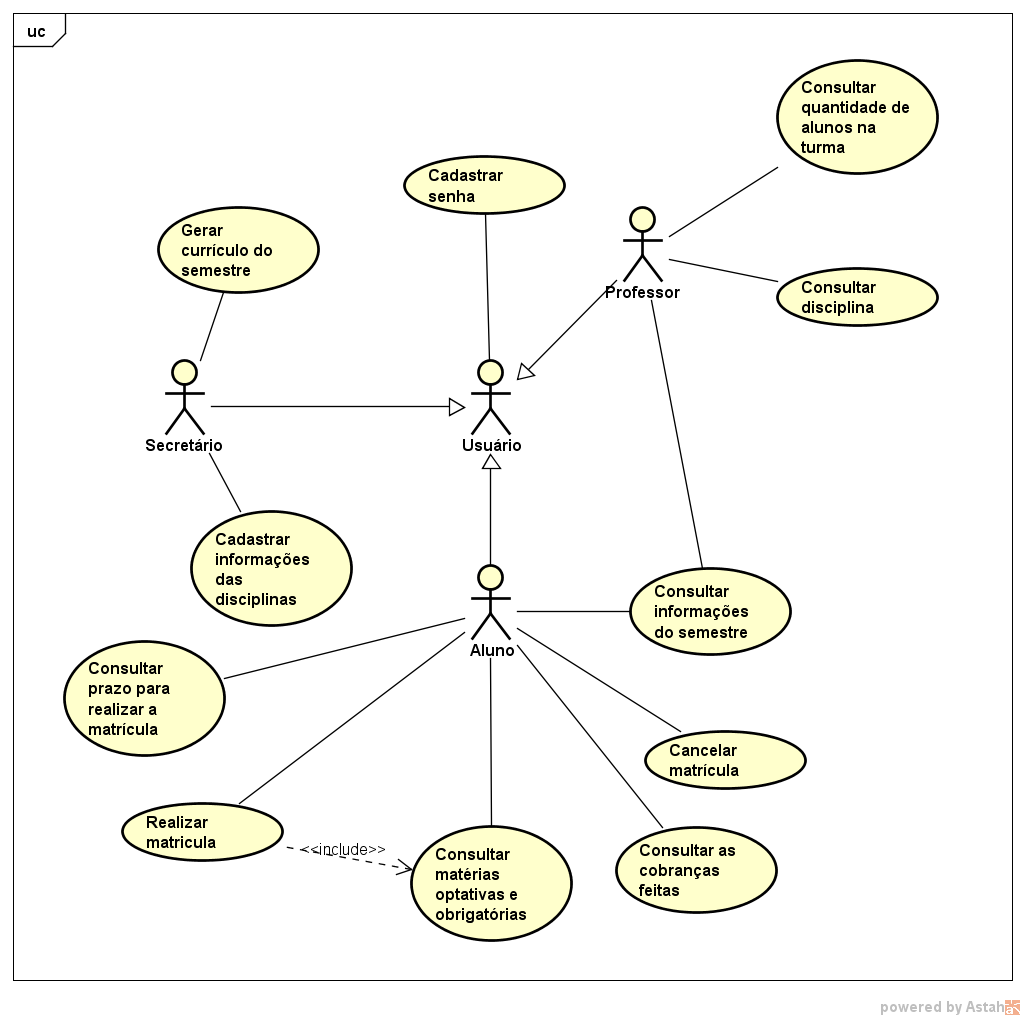
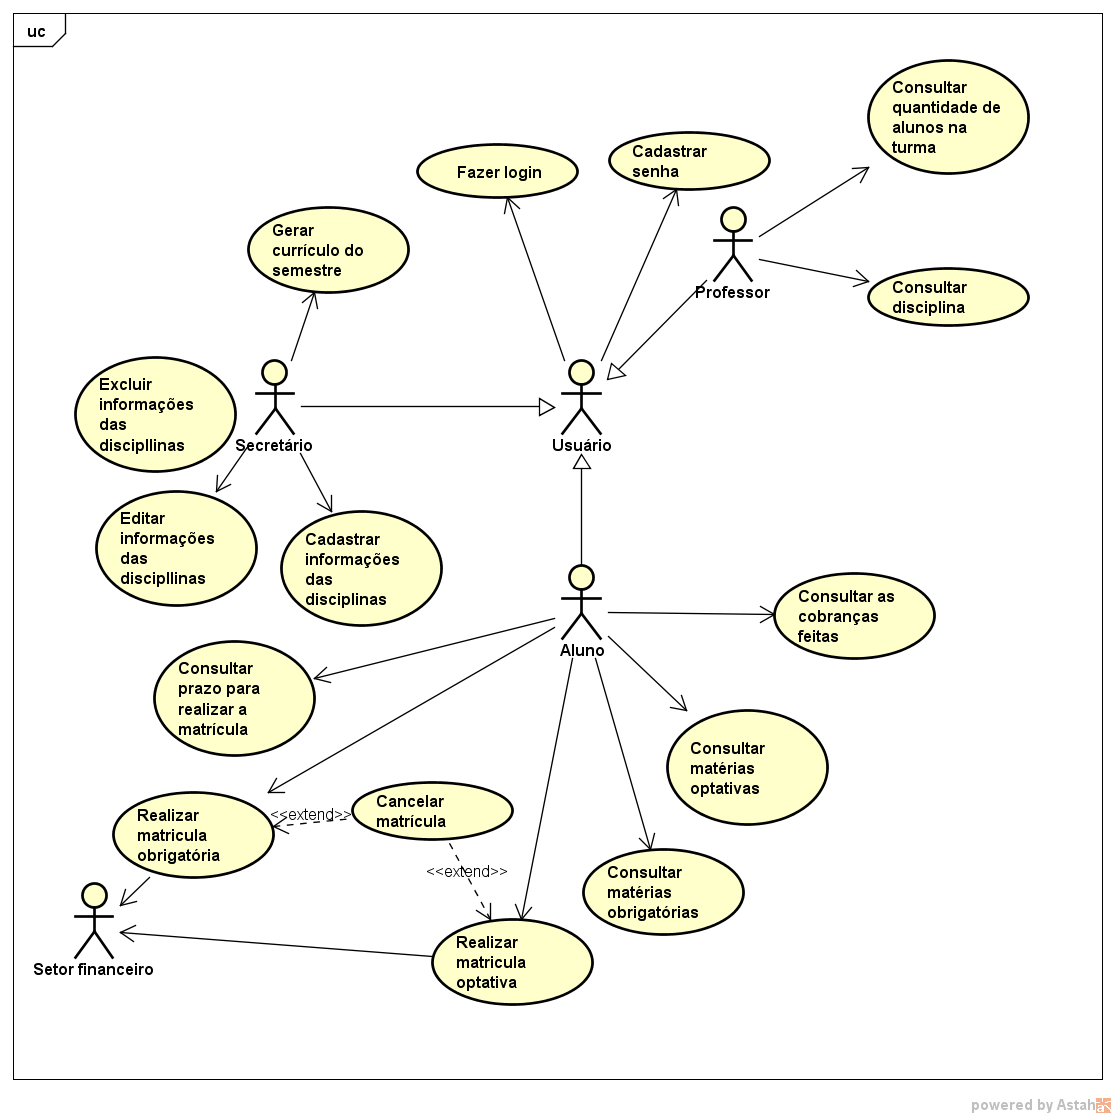
Alterado diagrama de casos de uso e histórias de usuário

diff --git a/Lab_01/Projeto/README.md b/Lab_01/Projeto/README.md
@@ -1,5 +1,5 @@
 <p>Eu, como secretaria da universidade, posso gerar o currículo para cada semestre, para informar para os alunos e os professores</p>
-<p>Eu, como secretaria da universidade, posso cadastrar as informações sobre as disciplinas, para manter controle das informações</p>
+<p>Eu, como secretaria da universidade, posso cadastrar as informações sobre as disciplinas, professores e alunos, para manter controle das informações</p>
 <p>Eu, como aluno, posso consultar as informações do semestre, para me programar para o semestre letivo</p>
 <p>Eu, como professor, posso consultar as informações do semestre, para me programar para o semestre letivo</p>
 <p>Eu, como aluno, posso realizar matricula, para cursar a disciplina</p>
@@ -7,6 +7,7 @@
 <p>Eu, como aluno, posso consultar o prazo para realizar a matrícula, para me programar para o semestre letivo</p>
 <p>Eu, como aluno, posso cancelar a matricula, para não precisar cursar a disciplina</p>
 <p>Eu, como professor, posso consultar se uma disciplina está ativa ou não, para saber em quais disciplinas posso dar aula</p>
+<p>Eu, como aluno, posso consultar se uma disciplina está ativa ou não, para saber se a minha disciplina ocorrerá como esperado</p>
 <p>Eu, como professor, posso consultar a quantidade de alunos na turma, para identificar para quantas pessoas darei aula</p>
-<p>Eu, como aluno, posso consultar as cobrancas feitas pela uniersidade, para saber quanto devo pagar</p>
+<p>Eu, como aluno, posso consultar as cobrancas feitas pela universidade, para saber quanto devo pagar</p>
 <p>Eu, como usuário, posso cadastrar uma senha, para proteger a minha conta de terceiros</p>
